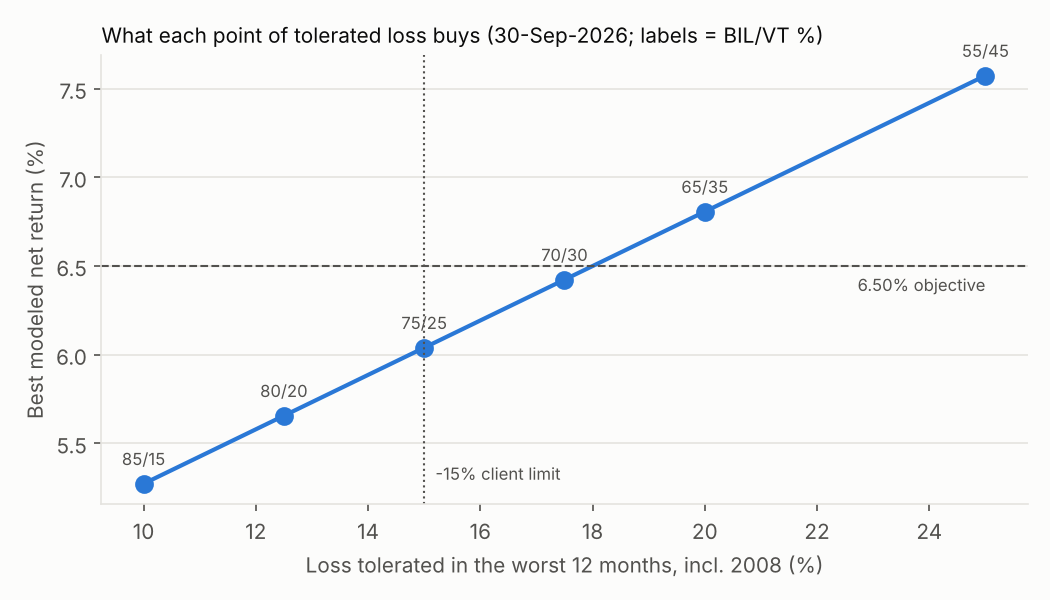
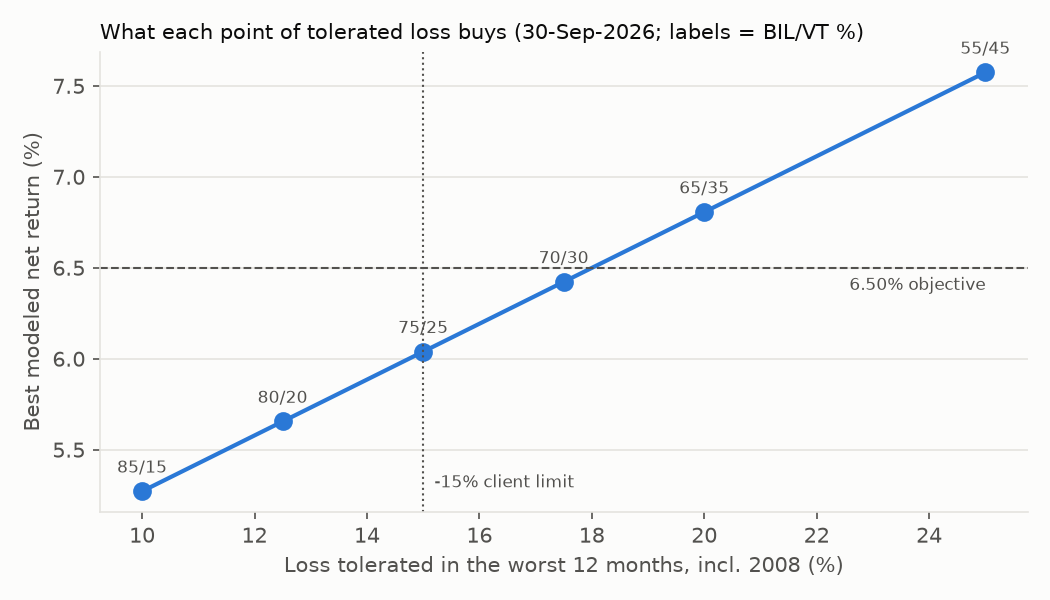
Cold-run fix: pin pandas 3.1.1 (3.0.5 has no Windows wheel for Python 3.15); UTF-8 file handling

diff --git a/lcir.py b/lcir.py
@@ -39,7 +39,7 @@ def git(*args):
 def check_prediction(skip_git: bool) -> dict:
     if not PRED.exists():
         sys.exit("docs/lcir/prediction.md is missing.")
-    text = PRED.read_text()
+    text = PRED.read_text(encoding="utf-8")
     if "<<" in text or ">>" in text:
         sys.exit("prediction.md still has <<blanks>>. Fill every one, AI closed, then commit.")
     info = {"text": text, "commit": "not verified (--skip-git-check)", "commit_time": "",
@@ -48,11 +48,11 @@ def check_prediction(skip_git: bool) -> dict:
         return info
     if git("rev-parse", "--is-inside-work-tree").returncode != 0:
         sys.exit("This folder is not a git repository. Commit the prediction first.")
-    log = git("log", "-1", "--format=%H|%cI", "--", str(PRED.relative_to(e.ROOT)))
+    log = git("log", "-1", "--format=%H|%cI", "--", PRED.relative_to(e.ROOT).as_posix())
     if not log.stdout.strip():
         sys.exit("prediction.md has never been committed. Run:\n  git add docs/lcir/prediction.md\n"
                  "  git commit -m \"LCIR prediction (AI off)\"\n  git push\nthen run this again.")
-    if git("diff", "--quiet", "HEAD", "--", str(PRED.relative_to(e.ROOT))).returncode != 0:
+    if git("diff", "--quiet", "HEAD", "--", PRED.relative_to(e.ROOT).as_posix()).returncode != 0:
         sys.exit("prediction.md was edited after its last commit. A locked prediction cannot "
                  "change after it is committed. Undo the edit (git checkout -- docs/lcir/prediction.md).")
     sha, when = log.stdout.strip().split("|")
@@ -127,7 +127,7 @@ def main():
     ap.add_argument("--skip-git-check", action="store_true",
                     help="only for a test run; the record will say 'not verified'")
     a = ap.parse_args()
-    if "### Locked Changed-Input Record" in VALID.read_text():
+    if "### Locked Changed-Input Record" in VALID.read_text(encoding="utf-8"):
         sys.exit("The Locked Changed-Input Record has already been run and written into "
                  "docs/validation-and-ai-use.md. It is locked; a second run would overwrite it.")
     pred = check_prediction(a.skip_git_check)
@@ -164,13 +164,13 @@ def main():
 **Failure diagnosis (only if the prediction missed; otherwise write "not needed"):** <<the first assumption, unit, sign or rule that broke - do not rewrite the prediction>>
 """
     RESULT.write_text("# Locked Changed-Input Record - machine record\n\n" + body +
-                      "\nThe reconciliation is in docs/validation-and-ai-use.md, section 7.\n")
+                      "\nThe reconciliation is in docs/validation-and-ai-use.md, section 7.\n", encoding="utf-8")
     body = body + student
-    v = VALID.read_text()
+    v = VALID.read_text(encoding="utf-8")
     if START in v and END in v:
         pre, rest = v.split(START, 1)
         _, post = rest.split(END, 1)
-        VALID.write_text(pre + START + "\n" + body + "\n" + END + post)
+        VALID.write_text(pre + START + "\n" + body + "\n" + END + post, encoding="utf-8")
     print(f"Before: {before['weights']} -> After: {after['weights']} | "
           f"{before['Recommendation']} -> {after['Recommendation']}")
     print("Wrote docs/lcir/result.md and the LCIR section of docs/validation-and-ai-use.md.")

diff --git a/tests/test_lcir.py b/tests/test_lcir.py
@@ -8,8 +8,20 @@ ROOT = Path(__file__).resolve().parents[1]
 
 
 def copy_repo(tmp):
+    """A copy of the project with a blank prediction and an empty LCIR section,
+    so these tests behave the same before and after the real record is made."""
     dst = tmp / "repo"
     shutil.copytree(ROOT, dst, ignore=shutil.ignore_patterns(".git", ".venv", "__pycache__"))
+    valid = dst / "docs" / "validation-and-ai-use.md"
+    text = valid.read_text(encoding="utf-8")
+    start, end = "<!-- LCIR-START -->", "<!-- LCIR-END -->"
+    pre, rest = text.split(start, 1)
+    _, post = rest.split(end, 1)
+    valid.write_text(pre + start + "\n*Not yet run.*\n" + end + post, encoding="utf-8")
+    (dst / "docs" / "lcir" / "prediction.md").write_text("Blank <<prediction>>\n", encoding="utf-8")
+    result = dst / "docs" / "lcir" / "result.md"
+    if result.exists():
+        result.unlink()
     return dst
 
 
@@ -31,7 +43,7 @@ def test_refuses_blank_prediction(tmp_path):
 def test_refuses_uncommitted_then_runs_after_commit(tmp_path):
     dst = copy_repo(tmp_path)
     pred = dst / "docs" / "lcir" / "prediction.md"
-    pred.write_text("A finished test prediction with no blanks.\n")
+    pred.write_text("A finished test prediction with no blanks.\n", encoding="utf-8")
     git(dst, "init", "-q")
     out = run(dst, "--change", "annual_cost_bps=35")
     assert out.returncode != 0 and "never been committed" in (out.stdout + out.stderr)
@@ -39,7 +51,7 @@ def test_refuses_uncommitted_then_runs_after_commit(tmp_path):
     git(dst, "commit", "-qm", "prediction")
     out = run(dst, "--change", "annual_cost_bps=35")
     assert out.returncode == 0, out.stderr
-    rec = (dst / "docs" / "validation-and-ai-use.md").read_text()
+    rec = (dst / "docs" / "validation-and-ai-use.md").read_text(encoding="utf-8")
     assert "A finished test prediction" in rec and "Annual cost 10 bp -> 35 bp" in rec
     out = run(dst, "--change", "annual_cost_bps=35")
     assert out.returncode != 0 and "locked" in (out.stdout + out.stderr)
@@ -48,10 +60,10 @@ def test_refuses_uncommitted_then_runs_after_commit(tmp_path):
 def test_refuses_prediction_edited_after_commit(tmp_path):
     dst = copy_repo(tmp_path)
     pred = dst / "docs" / "lcir" / "prediction.md"
-    pred.write_text("A finished test prediction with no blanks.\n")
+    pred.write_text("A finished test prediction with no blanks.\n", encoding="utf-8")
     git(dst, "init", "-q")
     git(dst, "add", "-A")
     git(dst, "commit", "-qm", "prediction")
-    pred.write_text("edited after the commit\n")
+    pred.write_text("edited after the commit\n", encoding="utf-8")
     out = run(dst, "--change", "annual_cost_bps=35")
     assert out.returncode != 0 and "edited after" in (out.stdout + out.stderr)

diff --git a/fetch_data.py b/fetch_data.py
@@ -89,18 +89,18 @@ def main():
     last_complete = (today.replace(day=1) - timedelta(days=1)).strftime("%Y-%m")
     REFRESH.mkdir(parents=True, exist_ok=True)
     rows, meta = fetch_prices(last_complete)
-    with (REFRESH / "prices_monthly.csv").open("w", newline="") as f:
+    with (REFRESH / "prices_monthly.csv").open("w", newline="", encoding="utf-8") as f:
         w = csv.writer(f, lineterminator="\n")
         w.writerow(["date"] + TICKERS)
         w.writerows(rows)
     reviews = [f"{y}-09-30" for y in range(2009, today.year + 1) if date(y, 9, 30) <= today]
     g = fetch_gs2(reviews)
-    with (REFRESH / "gs2_vintages.csv").open("w", newline="") as f:
+    with (REFRESH / "gs2_vintages.csv").open("w", newline="", encoding="utf-8") as f:
         w = csv.writer(f, lineterminator="\n")
         w.writerow(["vintage_date", "last_month_measured", "gs2_percent", "observations_in_vintage",
                     "value_in_2026-11-19_vintage", "response_sha256", "source_url"])
         w.writerows(g)
-    (REFRESH / "refresh_provenance.json").write_text(json.dumps(meta, indent=2))
+    (REFRESH / "refresh_provenance.json").write_text(json.dumps(meta, indent=2), encoding="utf-8")
     # compare monthly RETURNS with the frozen snapshot (levels change at every distribution)
     sys.path.insert(0, str(ROOT))
     import engine as e

diff --git a/run_analysis.py b/run_analysis.py
@@ -222,7 +222,7 @@ def main():
                         "Kept: daily closes move inside the month and return to the same close"]
                        for f in flags]))
     L.append("")
-    (OUT / "results.md").write_text("\n".join(L))
+    (OUT / "results.md").write_text("\n".join(L), encoding="utf-8")
 
     out = {
         "review_date": REVIEW, "recommendation": verb, "reason": why,
@@ -247,7 +247,7 @@ def main():
         "data_sha256": {"prices": sha(e.PRICES_CSV), "gs2": sha(e.GS2_CSV),
                         "proxy": sha(e.PROXY_CSV)},
     }
-    (OUT / "results.json").write_text(json.dumps(out, indent=2, default=float))
+    (OUT / "results.json").write_text(json.dumps(out, indent=2, default=float), encoding="utf-8")
     charts(bt, tr)
     print(f"{verb}: {e.fmt_w(res.weights)} (BIL/IEF/LQD/VT) | modeled net return "
           f"{res.exp_return:.2%} vs objective {e.MAPLE.target_return:.2%} | worst 12m "

diff --git a/tests/test_docs.py b/tests/test_docs.py
@@ -7,14 +7,14 @@ import pytest
 
 ROOT = Path(__file__).resolve().parents[1]
 RES = ROOT / "output" / "results.json"
-MEMO = (ROOT / "docs" / "decision-memo.md").read_text()
+MEMO = (ROOT / "docs" / "decision-memo.md").read_text(encoding="utf-8")
 
 
 @pytest.fixture(scope="module")
 def r():
     if not RES.exists():
         pytest.skip("run python run_analysis.py first")
-    return json.loads(RES.read_text())
+    return json.loads(RES.read_text(encoding="utf-8"))
 
 
 def p(x, nd=2):

diff --git a/output/results.md b/output/results.md
@@ -2,7 +2,7 @@
 
 > **AI disclosure:** built with AI assistance (Anthropic Claude: code, data retrieval, drafting). The analysis and the decision are Shrey Goyal's. **Education, not investment advice.**
 
-Generated by `python run_analysis.py` on 2026-11-19 18:50 UTC. Review date (as of): **2026-09-30**. Prices through **2026-10-30** (`data/prices_monthly.csv`, sha256 `d411a2247724`); GS2 vintages `data/gs2_vintages.csv` (sha256 `c9388de70804`). Both retrieved 2026-11-19.
+Generated by `python run_analysis.py` on 2026-11-23 23:31 UTC. Review date (as of): **2026-09-30**. Prices through **2026-10-30** (`data/prices_monthly.csv`, sha256 `d411a2247724`); GS2 vintages `data/gs2_vintages.csv` (sha256 `c9388de70804`). Both retrieved 2026-11-19.
 
 ## 1. Decision
 
